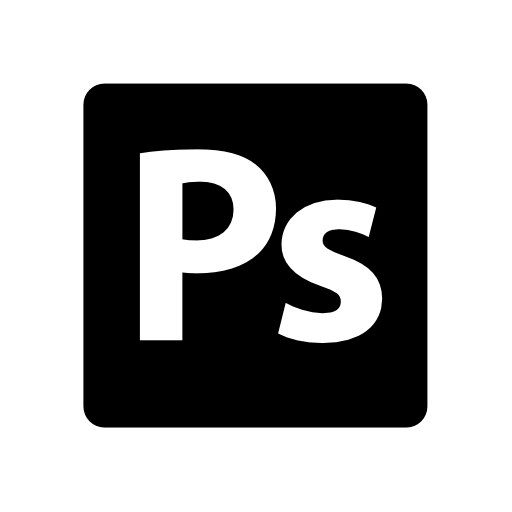
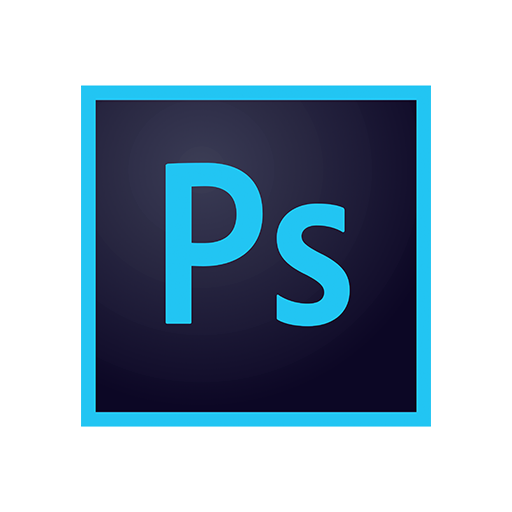
Updates no CV
Mais updates nas imagens do CV.

diff --git a/cv.html b/cv.html
@@ -92,7 +92,7 @@
 			                Estágiario de Design.
 
 			                <b>Dezembro 2015 - Atualmente – PicPay - Vitória, Brasil</b>
-			                Designer Visual, Designer de produto e Growth.
+			                Designer de Produto.
 			            </p>
 			        </div>
 			        <div class="cvImgs">
@@ -118,12 +118,16 @@
 		            <h2>FERRAMENTAS</h2>
 			            <div class="tools">
 			            	<div class="toolIcon">
+			            		<img title="Sketch" src="images/cv/sketch.png">
+			            		<p>Experiente</p>
+			            	</div>
+			            	<div class="toolIcon">
 			            		<img title="Illustrator" src="images/cv/illustrator.png">
 			            		<p>Experiente</p>
 			            	</div>
 			            	<div class="toolIcon">
 			            		<img title="Photoshop" src="images/cv/photoshop.png">
-			            		<p>Intermediário</p>
+			            		<p>Experiente</p>
 			            	</div>
 			            	<div class="toolIcon">
 			            		<img title="InDesign" src="images/cv/indesign.png">
@@ -132,10 +136,6 @@
 			            	<div class="toolIcon">
 			            		<img title="HTML e CSS" src="images/cv/web.png">
 			            		<p>Intermediário</p>
-			            	</div>
-			            	<div class="toolIcon">
-			            		<img title="Processing" src="images/cv/processing.png">
-			            		<p>Iniciante</p>
 			            	</div>
 			            </div>
 					</div>
